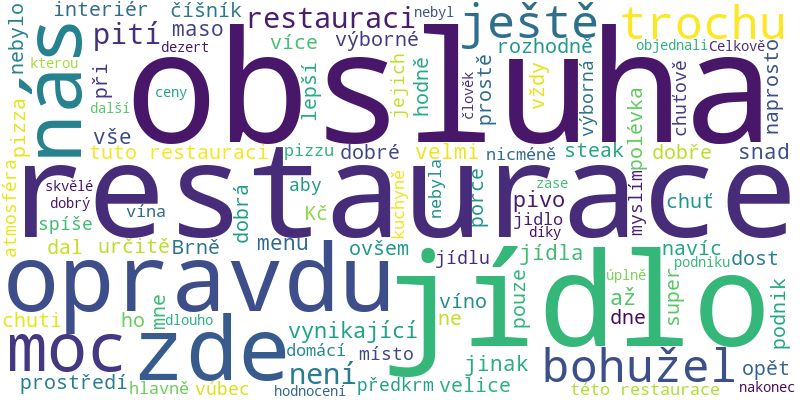
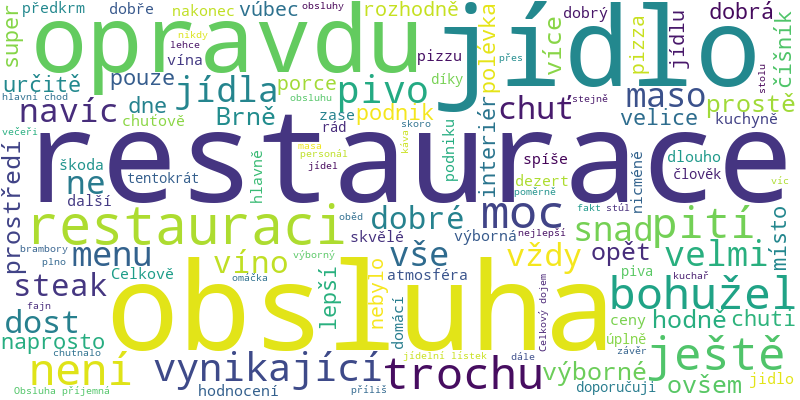
added stopwords

diff --git a/sentiment_wordcloud.py b/sentiment_wordcloud.py
@@ -55,7 +55,7 @@ prepositions = ["od","z","s","do","bez","krom","kromě","podle","okolo","vedle",
 conjunctions = ["a", "i", "ani", "nebo", "či", "přímo", "nadto", "ani", "jak", "tak", "hned", "jednak", "zčásti", "dílem", "ale", "avšak", "však", "leč", "nýbrž", "naopak", "jenomže", "jenže", "sice", "jistě", "ale", "i", "ba", "ba i", "ba ani", "nadto", "dokonce", "nejen", "nebo", "anebo", "buď", "totiž", "vždyť", "neboť", "vždyť", "totiž", "však", "také", "proto", "a proto", "a tak", "tudíž", "a tudíž", "tedy"]
 pronouns = ["já", "ty", "on", "ona", "ono", "my", "vy", "oni", "ony", "ona","se", "můj", "tvůj", "jeho", "její", "náš", "váš", "svůj", "ten", "tento", "tenhle", "onen", "takový", "týž", "tentýž", "sám", "kdo", "co", "jaký", "který","čí", "jenž", "nikdo", "nic", "nijaký", "ničí", "žádný", "někdo", "nějaký", "některý", "lecco", "něčí", "něco"]
 verbs = ["být","bejt","jsem","jsi","je","jest","jsme","jste","jsou","budu","budeš","bude","budeme","budete","budou","buď","budiž","buďme","buďmež","buďte","buďtež","byl","byla","bylo","byli","byly","jsa","jsouc","jsouce","byv","byvše","byvši","bych","bychom","bys","byste","by", "seš", "mám","máš","má","máme","máte","mají","měj","mějme","mějte","měl","měla","mělo","měli","měly","maje","majíc","majíce"]
-another_specific = ["si","jen","mi","mě","tady","tomu","že","to","nám","ná","takže","jako","už","pokud","asi","celkem","docela","tam","dali","ze","ve","ji","ta","pak","taky","což","tím","již","možná","která","toho","protože","sem","kde","která","které","tu","než","když"]
+another_specific = ["si","jen","mi","mě","tady","tomu","že","to","nám","ná","takže","jako","už","pokud","asi","celkem","docela","tam","dali","ze","ve","ji","ta","pak","taky","což","tím","již","možná","která","toho","protože","sem","kde","která","které","tu","než","když","Kč","při","až","ho","této","mne","aby","nebyl","tuto","tom","No","kdy","dal","nebyla","jejich","jinak","zde","kterou","toto","dala","ní","nás","mu","dostali","objednali","jím","myslím","jim"]
 
 #STOPWORDS WITHOUT DIACRITICS LOWERCASE
 prepositions_without = [''.join((c for c in unicodedata.normalize('NFD', preposition) if unicodedata.category(c) != 'Mn')) for preposition in prepositions]
@@ -78,17 +78,17 @@ verbs_upper_without = [verb.upper() for verb in verbs_without]
 stopwords = prepositions + conjunctions + pronouns + verbs + prepositions_without + pronouns_without + conjunctions_without + verbs_without + prepositions_upper + conjuctions_upper + pronouns_upper + verbs_upper + prepositions_upper_without + conjuctions_upper_without + pronouns_upper_without + verbs_upper_without + another_specific
 
 #WORDCLOUD
-import numpy as np
 import pandas as pd
 from PIL import Image
 from wordcloud import WordCloud, STOPWORDS, ImageColorGenerator
 import matplotlib.pyplot as plt
+
 reviews = [review.strip() for review in reviews]
 reviews_dict = {"review" : reviews} #z lsitu slovník, aby měl sloupec header (určitě jde i jinak)
 df = pd.DataFrame(reviews_dict) #pandas dataframe ze slovníku reviews
 text = " ".join(review for review in df.review) #recenze
 
-wordcloud = WordCloud(width=800, height=400, stopwords=stopwords, max_words=100, background_color="white").generate(text)
+wordcloud = WordCloud(width=800, height=400, stopwords=stopwords, max_words=120, background_color="white").generate(text)
 
 plt.figure(figsize=(15,10))
 plt.imshow(wordcloud, interpolation='bilinear')
